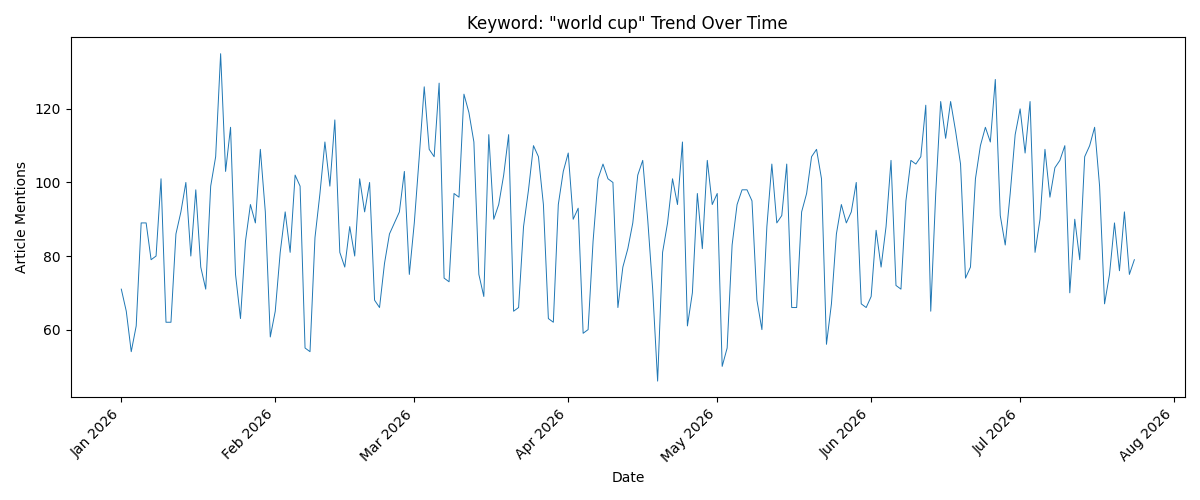
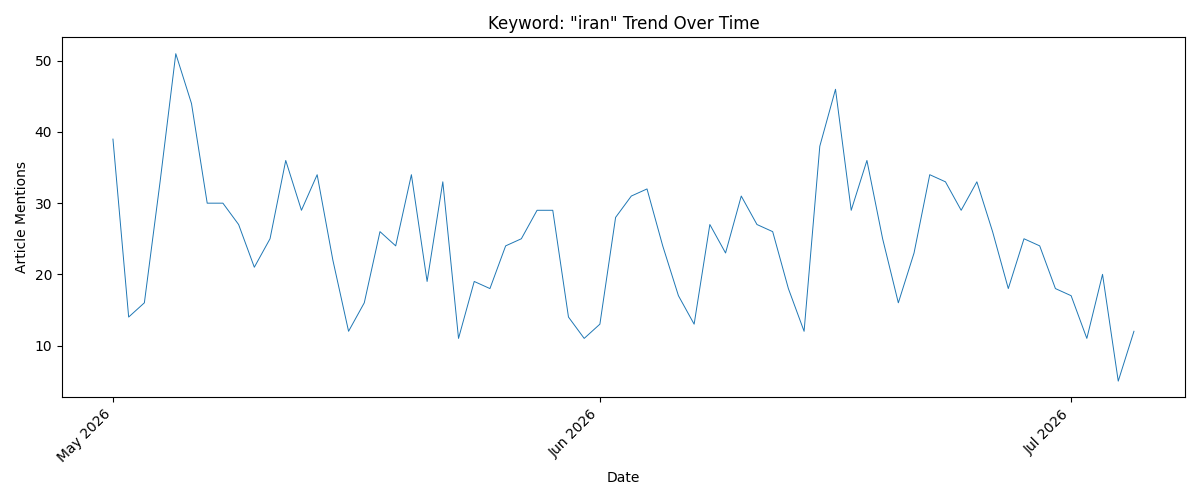
Added tests for cli. Working on additional --compare flag

diff --git a/tests/test_cli.rs b/tests/test_cli.rs
@@ -1,0 +1,41 @@
+use chrono::NaiveDate;
+use clap::Parser;
+use hamcrest2::prelude::*;
+use rstest::rstest;
+use semester_project::prelude::*;
+
+#[rstest]
+fn test_cli_struct() {
+    let arguments = Args {
+        keyword: "bitcoin".to_string(),
+        begin_date: NaiveDate::from_ymd_opt(2026, 01, 01).unwrap(),
+        end_date: NaiveDate::from_ymd_opt(2026, 07, 01).unwrap(),
+        compare_keyword: None,
+    };
+    assert_that!(arguments.keyword, equal_to("bitcoin"));
+    assert_that!(arguments.begin_date.to_string(), equal_to("2026-01-01"));
+    assert_that!(arguments.end_date.to_string(), equal_to("2026-07-01"));
+}
+
+#[rstest]
+fn test_parse_cli_valid() {
+    let arguments = Args::parse_from(["run", "bitcoin", "2025-01-01", "2026-01-01"]);
+    assert_that!(arguments.keyword, equal_to("bitcoin"));
+    assert_that!(arguments.begin_date.to_string(), equal_to("2025-01-01"));
+    assert_that!(arguments.end_date.to_string(), equal_to("2026-01-01"));
+}
+
+#[rstest]
+fn test_parse_cli_invalid() {
+    let result = Args::try_parse_from(["United", "States", "News"]);
+    assert_that!(result.is_err(), equal_to(true));
+}
+
+#[rstest]
+fn test_parse_cli_with_optional_flag() {
+    let arguments = Args::parse_from(["run", "bitcoin", "2025-01-01", "2026-01-01", "--compare", "etherium"]);
+    assert_that!(arguments.keyword, equal_to("bitcoin"));
+    assert_that!(arguments.begin_date.to_string(), equal_to("2025-01-01"));
+    assert_that!(arguments.end_date.to_string(), equal_to("2026-01-01"));
+    assert_that!(arguments.compare_keyword, equal_to(Some("etherium".to_string())));
+}

diff --git a/src/cli.rs b/src/cli.rs
@@ -9,18 +9,31 @@ pub struct Args {
     pub begin_date: NaiveDate,
     #[arg(value_parser = parse_date)]
     pub end_date: NaiveDate,
+    #[arg(long = "compare")]
+    pub compare_keyword: Option<String>
 }
 
 pub fn parse_cli() -> Args {
     let args = Args::parse();
-    println!(
-        "Searching for '{}' from {} to {}",
-        args.keyword, args.begin_date, args.end_date
-    );
+
+    if args.compare_keyword.is_none() {
+        println!(
+            "Searching for '{}' from {} to {}",
+            args.keyword, args.begin_date, args.end_date
+        );
+    }
+
+    if let Some(compare_keyword) = &args.compare_keyword {
+        println!(
+            "Searching for '{}' from {} to {}, comparing with {}",
+            args.keyword, args.begin_date, args.end_date, compare_keyword
+        );
+    }
+
     args
 }
 
-fn parse_date(s: &str) -> Result<NaiveDate, String> {
+pub fn parse_date(s: &str) -> Result<NaiveDate, String> {
     NaiveDate::parse_from_str(s, "%Y-%m-%d")
         .map_err(|_| format!("Please use the input format \"Cargo run \"key word\" YYYY-MM-DD YYYY-MM-DD\" where the first date is begin, and the second is end date"))
 }

diff --git a/plot_trend.py b/plot_trend.py
@@ -2,6 +2,7 @@ import csv
 from datetime import datetime
 import matplotlib.pyplot as plt
 import matplotlib.dates as mdates
+import encodings
 
 def plot_data_from_csv(filename, keyword):
     dates = []

diff --git a/src/lib.rs b/src/lib.rs
@@ -1,3 +1,9 @@
 pub mod parser;
 pub mod cli;
 pub mod graph_builder;
+
+pub mod prelude {
+    pub use crate::cli::*;
+    pub use crate::parser::*;
+    pub use crate::graph_builder::*;
+}

diff --git a/src/main.rs b/src/main.rs
@@ -33,6 +33,7 @@ async fn main() {
             return;
         }
     };
+    
     plot_data_from_csv(&csv_filename, &keyword).unwrap();
     // println!("{:#?}", parse_cli());
     
